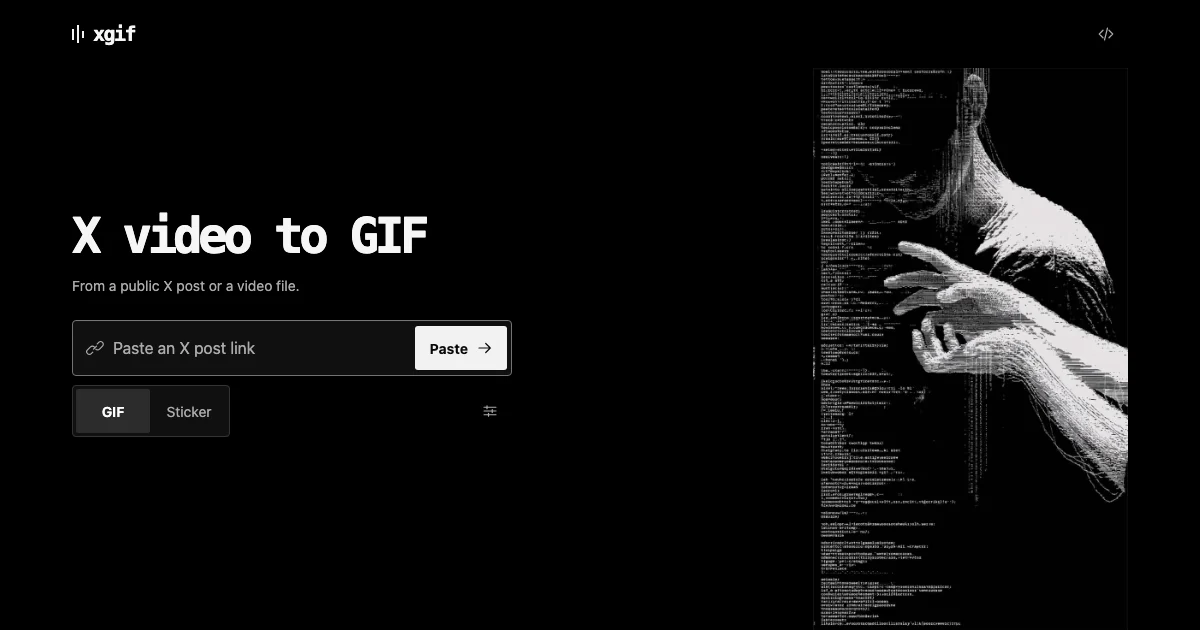
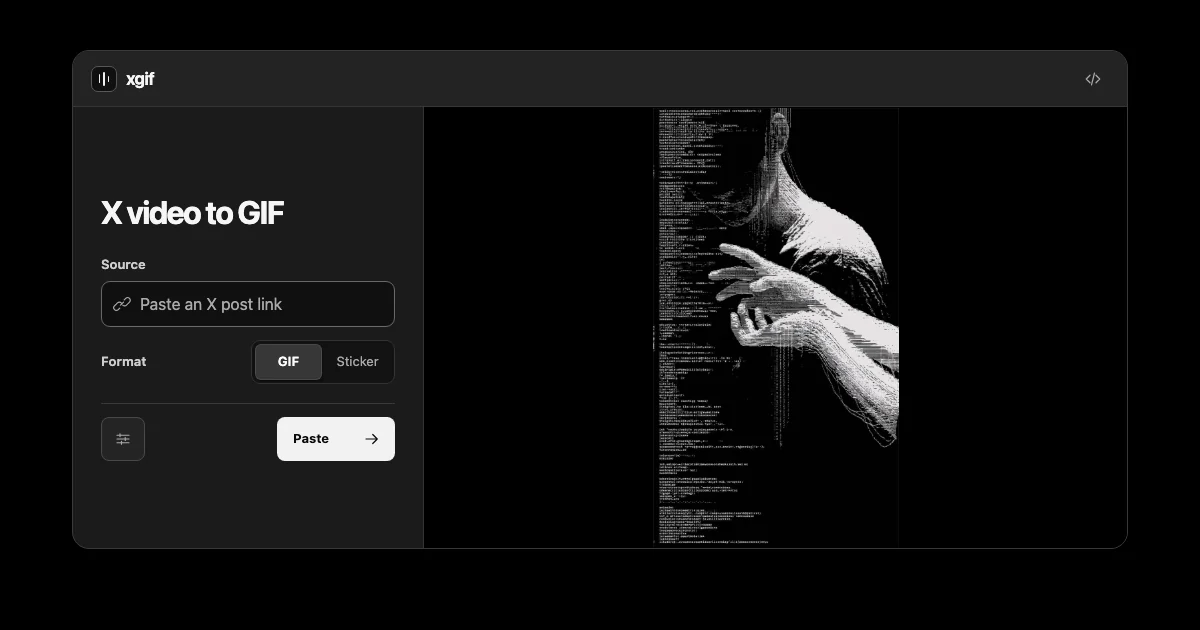
Refine xgif into a native-style conversion utility

diff --git a/src/style.css b/src/style.css
@@ -2,13 +2,14 @@
   color-scheme: dark;
   color: #f5f5f5;
   background: #000;
-  font: 15px/1.5 system-ui, -apple-system, BlinkMacSystemFont, sans-serif;
+  font: 14px/1.45 -apple-system, BlinkMacSystemFont, system-ui, sans-serif;
   --muted: #aaa;
   --border: #333;
   --field-border: #747474;
   --field: #101010;
   --accent: #f2f2f2;
-  --mono: ui-monospace, "SF Mono", Menlo, Consolas, monospace;
+  --panel: #1b1b1b;
+  --surface: #232323;
   --ease: cubic-bezier(.2,.8,.2,1);
 }
 * { box-sizing: border-box; }
@@ -25,26 +26,51 @@ fieldset { border: 0; padding: 0; margin: 0; min-inline-size: 0; }
 .visually-hidden { position: absolute; width: 1px; height: 1px; overflow: hidden; clip-path: inset(50%); white-space: nowrap; }
 .icon { width: 18px; height: 18px; flex: none; fill: none; stroke: currentColor; stroke-width: 1.6; stroke-linecap: round; stroke-linejoin: round; }
 
-.shell { width: min(100% - 2 * clamp(16px, 6vw, 86px), 1140px); margin: auto; }
-.topbar { display: flex; min-height: 68px; align-items: center; justify-content: space-between; }
-.wordmark { display: flex; align-items: center; gap: 9px; font: 700 20px/1 var(--mono); letter-spacing: -.075em; }
-.signal-mark { display: flex; align-items: center; gap: 3px; height: 24px; color: var(--accent); }
-.signal-mark i { width: 2px; height: 11px; background: currentColor; }
-.signal-mark i:nth-child(2) { height: 18px; }
-.signal-mark i:nth-child(3) { height: 7px; }
+.shell {
+  width: min(100% - 48px, 1056px);
+  margin: clamp(24px, 8svh, 90px) auto;
+  border: 1px solid #393939;
+  border-radius: 17px;
+  background: var(--panel);
+  box-shadow: 0 0 0 1px #000, 0 26px 74px #000b;
+}
+.topbar {
+  display: flex;
+  min-height: 56px;
+  padding: 0 12px 0 18px;
+  align-items: center;
+  justify-content: space-between;
+  border-bottom: 1px solid #363636;
+  border-radius: 16px 16px 0 0;
+  background: var(--surface);
+}
+.wordmark { display: flex; align-items: center; gap: 9px; font-size: 17px; font-weight: 670; letter-spacing: -.035em; }
+.signal-mark {
+  display: flex; align-items: center; justify-content: center; gap: 3px;
+  width: 26px; height: 26px; border: 1px solid #575757; border-radius: 7px;
+  color: var(--accent); background: #101010;
+}
+.signal-mark i { width: 1.5px; height: 9px; border-radius: 1px; background: currentColor; }
+.signal-mark i:nth-child(2) { height: 14px; }
+.signal-mark i:nth-child(3) { height: 6px; }
 
 .workspace {
   position: relative;
   display: grid;
-  grid-template-columns: minmax(290px, .95fr) minmax(0, 1.05fr);
-  gap: clamp(26px, 6vw, 92px);
-  align-items: start;
-  padding-bottom: 32px;
+  grid-template-columns: clamp(290px, 34vw, 350px) minmax(0, 1fr);
+  min-height: clamp(440px, 70svh, 690px);
+}
+.viewer {
+  display: grid;
+  place-items: center;
+  min-width: 0;
+  border-left: 1px solid #363636;
+  border-radius: 0 0 16px 0;
+  background: #000;
 }
 .hero-art {
   position: relative;
-  justify-self: end;
-  width: min(100%, 520px, max(292px, calc((100svh - 68px) * .56)));
+  width: min(100%, clamp(246px, 39svh, 386px));
   aspect-ratio: 736 / 1314;
   overflow: hidden;
   isolation: isolate;
@@ -61,18 +87,19 @@ fieldset { border: 0; padding: 0; margin: 0; min-inline-size: 0; }
 .hero-art[data-tracking] .art-echo { opacity: .92; transform: translateX(var(--shift, 0px)); transition-duration: 65ms; }
 .hero-art[data-tracking] .art-echo:last-child { transform: translateX(calc(var(--shift, 0px) * -.55)); }
 
-.console { align-self: center; width: min(100%, 440px); padding: 20px 0 60px; }
-h1 { margin: 0; font: 670 clamp(28px, 4.2vw, 49px)/1.08 var(--mono); letter-spacing: -.087em; text-wrap: balance; }
-.intro { margin: 11px 0 24px; color: var(--muted); font-size: 14px; text-wrap: balance; }
+.console { align-self: center; min-width: 0; padding: 28px; }
+h1 { margin: 0 0 25px; font-size: clamp(24px, 3.2vw, 32px); font-weight: 690; line-height: 1.1; letter-spacing: -.05em; }
+.field-label { display: block; color: #cecece; font-size: 13px; font-weight: 610; }
 .command {
   display: flex;
   gap: 9px;
-  min-height: 56px;
+  min-height: 46px;
+  margin-top: 7px;
   align-items: center;
-  border: 1px solid var(--field-border);
+  border: 1px solid #686868;
   background: var(--field);
-  border-radius: 4px;
-  padding: 4px 4px 4px 13px;
+  border-radius: 9px;
+  padding: 0 10px 0 11px;
 }
 .command > .icon { color: var(--muted); }
 .command:focus-within { border-color: var(--accent); }
@@ -82,63 +109,82 @@ h1 { margin: 0; font: 670 clamp(28px, 4.2vw, 49px)/1.08 var(--mono); letter-spac
 #file-name { display: block; line-height: 44px; text-overflow: ellipsis; white-space: nowrap; overflow: hidden; }
 .icon-button, .primary, .secondary {
   display: inline-flex; min-height: 44px; gap: 8px; align-items: center; justify-content: center;
-  border: 1px solid transparent; border-radius: 3px; text-decoration: none; white-space: nowrap; font-size: 14px;
+  border: 1px solid transparent; border-radius: 8px; text-decoration: none; white-space: nowrap; font-size: 13px;
   transition: background-color 140ms ease-out, color 140ms ease-out, transform 140ms var(--ease);
 }
 .icon-button { width: 44px; background: transparent; color: var(--muted); padding: 0; flex: none; }
-.primary { padding: 0 12px 0 14px; background: var(--accent); color: #0a0a0a; font-weight: 680; }
+.primary { padding: 0 13px 0 15px; background: var(--accent); color: #0a0a0a; font-weight: 680; }
 .secondary { padding: 0 12px; border-color: #595959; background: #141414; color: inherit; }
 button:disabled, fieldset:disabled .formats { opacity: .64; }
 button:active:not(:disabled) { transform: scale(.96); }
 .toolbar, .working, .result-bar { display: flex; align-items: center; justify-content: space-between; gap: 9px; }
-.toolbar { margin-top: 9px; }
-.formats { display: flex; gap: 2px; padding: 3px; border: 1px solid var(--border); border-radius: 4px; background: #101010; }
+.format-row { display: flex; align-items: center; justify-content: space-between; gap: 10px; }
+.format-row { margin-top: 13px; }
+.action-row { margin-top: 19px; padding-top: 13px; border-top: 1px solid #373737; }
+#toggle-options { border-color: #494949; background: #242424; }
+#convert { min-width: 118px; justify-content: space-between; }
+#remove-file { margin-right: -9px; }
+
+.formats { display: flex; gap: 2px; padding: 3px; border: 1px solid var(--border); border-radius: 9px; background: #131313; }
 .formats label { position: relative; cursor: pointer; }
 .formats input { position: absolute; opacity: 0; width: 1px; height: 1px; }
-.formats span { display: grid; min-width: 74px; min-height: 44px; place-items: center; border-radius: 2px; color: var(--muted); font-size: 14px; text-align: center; }
-.formats input:checked + span { background: #2c2c2c; color: #fff; font-weight: 630; }
+.formats span { display: grid; min-width: 67px; min-height: 36px; place-items: center; border-radius: 6px; color: var(--muted); font-size: 13px; text-align: center; }
+.formats input:checked + span { background: #373737; color: #fff; font-weight: 630; box-shadow: 0 1px 2px #0007, inset 0 0 0 1px #ffffff17; }
 .formats input:focus-visible + span { outline: 2px solid var(--accent); outline-offset: -2px; }
 .clip-picker, .trim-options { display: grid; gap: 8px; margin-top: 12px; color: var(--muted); font-size: 13px; }
 .trim-options { grid-template-columns: repeat(2, minmax(0, 1fr)); }
-.trim-options input, select { display: block; width: 100%; min-height: 44px; margin-top: 5px; padding: 7px 9px; border: 1px solid var(--field-border); border-radius: 3px; background: var(--field); color: inherit; font-size: 16px; }
+.trim-options input, select { display: block; width: 100%; min-height: 44px; margin-top: 5px; padding: 7px 9px; border: 1px solid var(--field-border); border-radius: 8px; background: var(--field); color: inherit; font-size: 16px; }
 dialog {
   width: min(100% - 32px, 360px); max-width: none; padding: 16px;
-  border: 1px solid var(--border); border-radius: 5px; background: #151515; color: inherit;
+  border: 1px solid #545454; border-radius: 14px; background: #242424; color: inherit;
   box-shadow: 0 10px 40px #0008; overscroll-behavior: contain;
 }
-dialog::backdrop { background: #000b; }
+dialog::backdrop { background: #0009; }
+dialog[open] { animation: dialog-enter 180ms var(--ease) both; }
+@keyframes dialog-enter {
+  from { opacity: 0; transform: translateY(8px); }
+  to { opacity: 1; transform: translateY(0); }
+}
+.option-actions { margin-top: 12px; border: 1px solid #494949; border-radius: 10px; background: #191919; }
+.option-row { display: flex; width: 100%; min-height: 44px; align-items: center; gap: 10px; padding: 0 11px; border: 0; color: inherit; background: transparent; text-align: start; }
+.option-row:first-child { border-radius: 9px 9px 0 0; }
+.option-row:last-child { border-top: 1px solid #393939; border-radius: 0 0 9px 9px; }
+.option-row .chevron { width: 14px; margin-inline-start: auto; color: var(--muted); }
+#toggle-trim[aria-expanded=true] .chevron { transform: rotate(90deg); }
 dialog header { display: flex; justify-content: space-between; align-items: center; gap: 8px; border-bottom: 1px solid var(--border); padding-bottom: 8px; }
 dialog h2, .result-bar h2 { margin: 0; font-size: 15px; font-weight: 650; }
-.activity { margin-top: 9px; }
+.activity:has(#status:not(:empty), #working:not([hidden])) { margin-top: 9px; }
 #status { margin: 0; color: var(--muted); font-size: 13px; text-wrap: pretty; }
 #status[data-error] { color: #fff; }
 .working { margin-top: 8px; }
 progress { flex: 1; min-width: 0; height: 5px; accent-color: var(--accent); }
 
-.workspace:has(#result:not([hidden])) .hero-art { display: none; }
-.workspace:has(#result:not([hidden])) { padding-top: clamp(24px, 5vw, 72px); }
-.drop-hint { display: none; position: absolute; z-index: 2; inset: 0; place-items: center; border: 1px dashed var(--accent); border-radius: 5px; background: #000d; color: var(--accent); pointer-events: none; }
+.viewer:has(#result:not([hidden])) .hero-art { display: none; }
+.drop-hint { display: none; position: absolute; z-index: 2; inset: 8px; place-items: center; border: 1px dashed var(--accent); border-radius: 12px; background: #000d; color: var(--accent); pointer-events: none; }
 .workspace[data-drop] .drop-hint { display: grid; }
-#result { display: grid; width: min(100%, 600px); gap: 12px; justify-self: end; padding: 12px; border: 1px solid var(--border); border-radius: 5px; background: #101010; }
-.preview { min-height: 130px; display: grid; place-items: center; border-radius: 3px; background: #060606; overflow: hidden; }
-.preview img { display: block; max-width: 100%; max-height: min(450px, 55svh); object-fit: contain; }
+#result { display: grid; width: min(100%, 600px); gap: 12px; min-width: 0; padding: clamp(13px, 3vw, 27px); }
+.preview { min-height: 130px; display: grid; place-items: center; border-radius: 10px; background: #101010; box-shadow: inset 0 0 0 1px #ffffff19; overflow: hidden; }
+.preview img { display: block; max-width: 100%; max-height: min(475px, 55svh); object-fit: contain; }
 .result-bar { flex-wrap: wrap; min-width: 0; }
 .result-bar span, #result-help { color: var(--muted); font-size: 13px; }
 .result-bar span { font-variant-numeric: tabular-nums; }
 .result-actions { display: flex; flex-wrap: wrap; gap: 6px; }
 #result-help { margin: 0; }
 @media (hover: hover) {
-  .icon-button:hover, .secondary:hover { color: #fff; background: #292929; }
+  .icon-button:hover, .secondary:hover, .option-row:hover, #toggle-options:hover { color: #fff; background: #292929; }
   .primary:hover { background: #d8d8d8; }
 }
 @media (max-width: 680px) {
-  .topbar { min-height: 56px; }
-  .workspace { grid-template-columns: minmax(0, 1fr); gap: 24px; padding: 24px 0 0; }
-  .console { width: min(100%, 440px); justify-self: center; padding: 0; }
-  .intro { margin-bottom: 17px; }
-  .hero-art { width: min(100%, 460px); justify-self: center; }
-  #result { justify-self: center; }
-  dialog { inset: auto 0 0; width: 100%; margin: 0; padding-bottom: max(16px, env(safe-area-inset-bottom)); border-radius: 7px 7px 0 0; }
+  .shell { width: 100%; margin: 0; border: 0; border-radius: 0; box-shadow: none; }
+  .topbar { position: sticky; z-index: 3; top: 0; border-radius: 0; padding-top: env(safe-area-inset-top); padding-inline: max(12px, env(safe-area-inset-left)) max(12px, env(safe-area-inset-right)); min-height: calc(56px + env(safe-area-inset-top)); }
+  .workspace { grid-template-columns: minmax(0, 1fr); min-height: 0; }
+  .console { width: min(100%, 464px); justify-self: center; padding: 24px max(16px, env(safe-area-inset-right)) 20px max(16px, env(safe-area-inset-left)); }
+  h1 { margin-bottom: 19px; }
+  .formats span { min-height: 44px; }
+  .viewer { border-left: 0; border-top: 1px solid #363636; border-radius: 0; padding-bottom: env(safe-area-inset-bottom); }
+  .hero-art { width: min(100% - 24px, 410px); }
+  #result { padding: 16px max(16px, env(safe-area-inset-right)) 16px max(16px, env(safe-area-inset-left)); scroll-margin-top: calc(56px + env(safe-area-inset-top)); }
+  dialog { inset: auto 0 0; width: 100%; margin: 0; padding-bottom: max(16px, env(safe-area-inset-bottom)); border-radius: 18px 18px 0 0; }
 }
 @media (max-width: 345px) {
   .command { gap: 6px; padding-left: 8px; }
@@ -147,6 +193,7 @@ progress { flex: 1; min-width: 0; height: 5px; accent-color: var(--accent); }
 }
 @media (prefers-reduced-motion: reduce) {
   .hero-art .art-echo { display: none; }
+  dialog[open] { animation: none; }
   button, .icon-button, .primary, .secondary { transition: none; }
   button:active:not(:disabled) { transform: none; }
 }

diff --git a/index.html b/index.html
@@ -2,7 +2,7 @@
 <html lang="en">
 <head>
   <meta charset="UTF-8">
-  <meta name="viewport" content="width=device-width, initial-scale=1">
+  <meta name="viewport" content="width=device-width, initial-scale=1, viewport-fit=cover">
   <meta name="color-scheme" content="dark">
   <meta name="theme-color" content="#000000">
   <meta name="description" content="Convert public X videos to GIFs and animated WebP stickers on your device.">
@@ -24,6 +24,9 @@
     <symbol id="link" viewBox="0 0 24 24"><path d="M10 13.5l4-4m1-3 2-2a3.5 3.5 0 0 1 5 5l-4 4a3.5 3.5 0 0 1-5 0m-4 4-2 2a3.5 3.5 0 0 1-5-5l4-4a3.5 3.5 0 0 1 5 0"/></symbol>
     <symbol id="source" viewBox="0 0 24 24"><path d="m8 7-5 5 5 5m8-10 5 5-5 5M14 4l-4 16"/></symbol>
     <symbol id="arrow" viewBox="0 0 24 24"><path d="M4 12h15m-6-6 6 6-6 6"/></symbol>
+    <symbol id="folder" viewBox="0 0 24 24"><path d="M3 7a2 2 0 0 1 2-2h4l2 2h8a2 2 0 0 1 2 2v8a2 2 0 0 1-2 2H5a2 2 0 0 1-2-2z"/></symbol>
+    <symbol id="trim-icon" viewBox="0 0 24 24"><path d="M5 7h14a2 2 0 0 1 2 2v6a2 2 0 0 1-2 2H5a2 2 0 0 1-2-2V9a2 2 0 0 1 2-2zm2 3v4m10-4v4"/></symbol>
+    <symbol id="chevron" viewBox="0 0 24 24"><path d="m9 6 6 6-6 6"/></symbol>
     <symbol id="options-icon" viewBox="0 0 24 24"><path d="M4 7h16M4 12h16M4 17h16m-12-12v4m7 1v4m-5 1v4"/></symbol>
     <symbol id="close" viewBox="0 0 24 24"><path d="m6 6 12 12M18 6 6 18"/></symbol>
     <symbol id="download" viewBox="0 0 24 24"><path d="M12 3v12m-5-5 5 5 5-5M4 16v4h16v-4"/></symbol>
@@ -41,38 +44,39 @@
     <main class="workspace">
       <section class="console" aria-labelledby="title">
         <h1 id="title">X video to GIF</h1>
-        <p class="intro">From a public X post or a video file.</p>
-
         <form id="converter">
           <fieldset id="controls">
-            <label class="visually-hidden" for="post">X post link</label>
+            <label class="field-label" for="post">Source</label>
             <div class="command">
               <svg class="icon" aria-hidden="true"><use href="#link"/></svg>
               <input id="post" type="url" inputmode="url" placeholder="Paste an X post link" autocomplete="off" spellcheck="false" autocapitalize="off" aria-describedby="status">
               <span id="file-name" hidden></span>
               <button id="remove-file" class="icon-button" type="button" aria-label="Remove video" hidden><svg class="icon" aria-hidden="true"><use href="#close"/></svg></button>
-              <button id="convert" class="primary" type="submit" aria-label="Paste &amp; convert">
-                <span id="convert-text">Paste</span><svg class="icon" aria-hidden="true"><use href="#arrow"/></svg>
-              </button>
             </div>
-            <div class="toolbar">
+            <div class="format-row">
+              <span class="field-label" aria-hidden="true">Format</span>
               <fieldset class="formats">
                 <legend class="visually-hidden">Output format</legend>
                 <label><input type="radio" name="format" value="gif" checked><span>GIF</span></label>
                 <label><input type="radio" name="format" value="webp"><span>Sticker</span></label>
               </fieldset>
+            </div>
+            <label id="clip-picker" class="clip-picker" hidden>Video in post <select id="clip"></select></label>
+            <div class="toolbar action-row">
               <button id="toggle-options" class="icon-button" type="button" aria-label="Options" title="Options" aria-haspopup="dialog" aria-expanded="false" aria-controls="options">
                 <svg class="icon" aria-hidden="true"><use href="#options-icon"/></svg>
               </button>
+              <button id="convert" class="primary" type="submit" aria-label="Paste &amp; convert">
+                <span id="convert-text">Paste</span><svg class="icon" aria-hidden="true"><use href="#arrow"/></svg>
+              </button>
             </div>
-            <label id="clip-picker" class="clip-picker" hidden>Video in post <select id="clip"></select></label>
 
-            <dialog id="options" aria-labelledby="options-title">
+            <dialog id="options" aria-labelledby="options-title" closedby="any">
               <header><h2 id="options-title">Options</h2><button id="close-options" class="secondary" type="button">Done</button></header>
-              <div class="toolbar">
-                <button id="choose-video" class="secondary" type="button">Open video…</button>
+              <div class="option-actions">
+                <button id="choose-video" class="option-row" type="button"><svg class="icon" aria-hidden="true"><use href="#folder"/></svg>Open video…<svg class="icon chevron" aria-hidden="true"><use href="#chevron"/></svg></button>
                 <input id="file" type="file" accept="video/*,.mov,.mkv" hidden>
-                <button id="toggle-trim" class="secondary" type="button" aria-controls="trim-options" aria-expanded="false">Trim clip</button>
+                <button id="toggle-trim" class="option-row" type="button" aria-controls="trim-options" aria-expanded="false"><svg class="icon" aria-hidden="true"><use href="#trim-icon"/></svg>Trim clip<svg class="icon chevron" aria-hidden="true"><use href="#chevron"/></svg></button>
               </div>
               <div id="trim-options" class="trim-options" hidden>
                 <label>Start (seconds)<input id="start" type="number" min="0" step="0.1" value="0" required></label>
@@ -91,25 +95,27 @@
         </div>
       </section>
 
-      <div class="hero-art" aria-hidden="true">
-        <picture id="art">
-          <source media="(max-width: 680px)" srcset="/src/assets/signal-small.webp">
-          <img src="/src/assets/signal.webp" alt="" width="736" height="1314" fetchpriority="high">
-        </picture>
+      <div class="viewer">
+        <div class="hero-art" aria-hidden="true">
+          <picture id="art">
+            <source media="(max-width: 680px)" srcset="/src/assets/signal-small.webp">
+            <img src="/src/assets/signal.webp" alt="" width="736" height="1314" fetchpriority="high">
+          </picture>
+        </div>
+        <section id="result" aria-labelledby="result-name" tabindex="-1" hidden>
+          <div class="preview"><img id="preview" alt="Converted animation"></div>
+          <div class="result-bar">
+            <div><h2 id="result-name"></h2><span id="result-size"></span></div>
+            <div class="result-actions">
+              <a id="save" class="secondary" download><svg class="icon" aria-hidden="true"><use href="#download"/></svg>Save</a>
+              <button id="copy" class="secondary" type="button" hidden>Copy</button>
+              <button id="share" class="primary" type="button" hidden><svg class="icon" aria-hidden="true"><use href="#share-icon"/></svg>Share</button>
+            </div>
+          </div>
+          <p id="result-help" hidden></p>
+        </section>
       </div>
       <span class="drop-hint" aria-hidden="true">Drop video</span>
-      <section id="result" aria-labelledby="result-name" tabindex="-1" hidden>
-        <div class="preview"><img id="preview" alt="Converted animation"></div>
-        <div class="result-bar">
-          <div><h2 id="result-name"></h2><span id="result-size"></span></div>
-          <div class="result-actions">
-            <a id="save" class="secondary" download><svg class="icon" aria-hidden="true"><use href="#download"/></svg>Save</a>
-            <button id="copy" class="secondary" type="button" hidden>Copy</button>
-            <button id="share" class="primary" type="button" hidden><svg class="icon" aria-hidden="true"><use href="#share-icon"/></svg>Share</button>
-          </div>
-        </div>
-        <p id="result-help" hidden></p>
-      </section>
     </main>
   </div>
   <script type="module" src="/src/main.js"></script>
